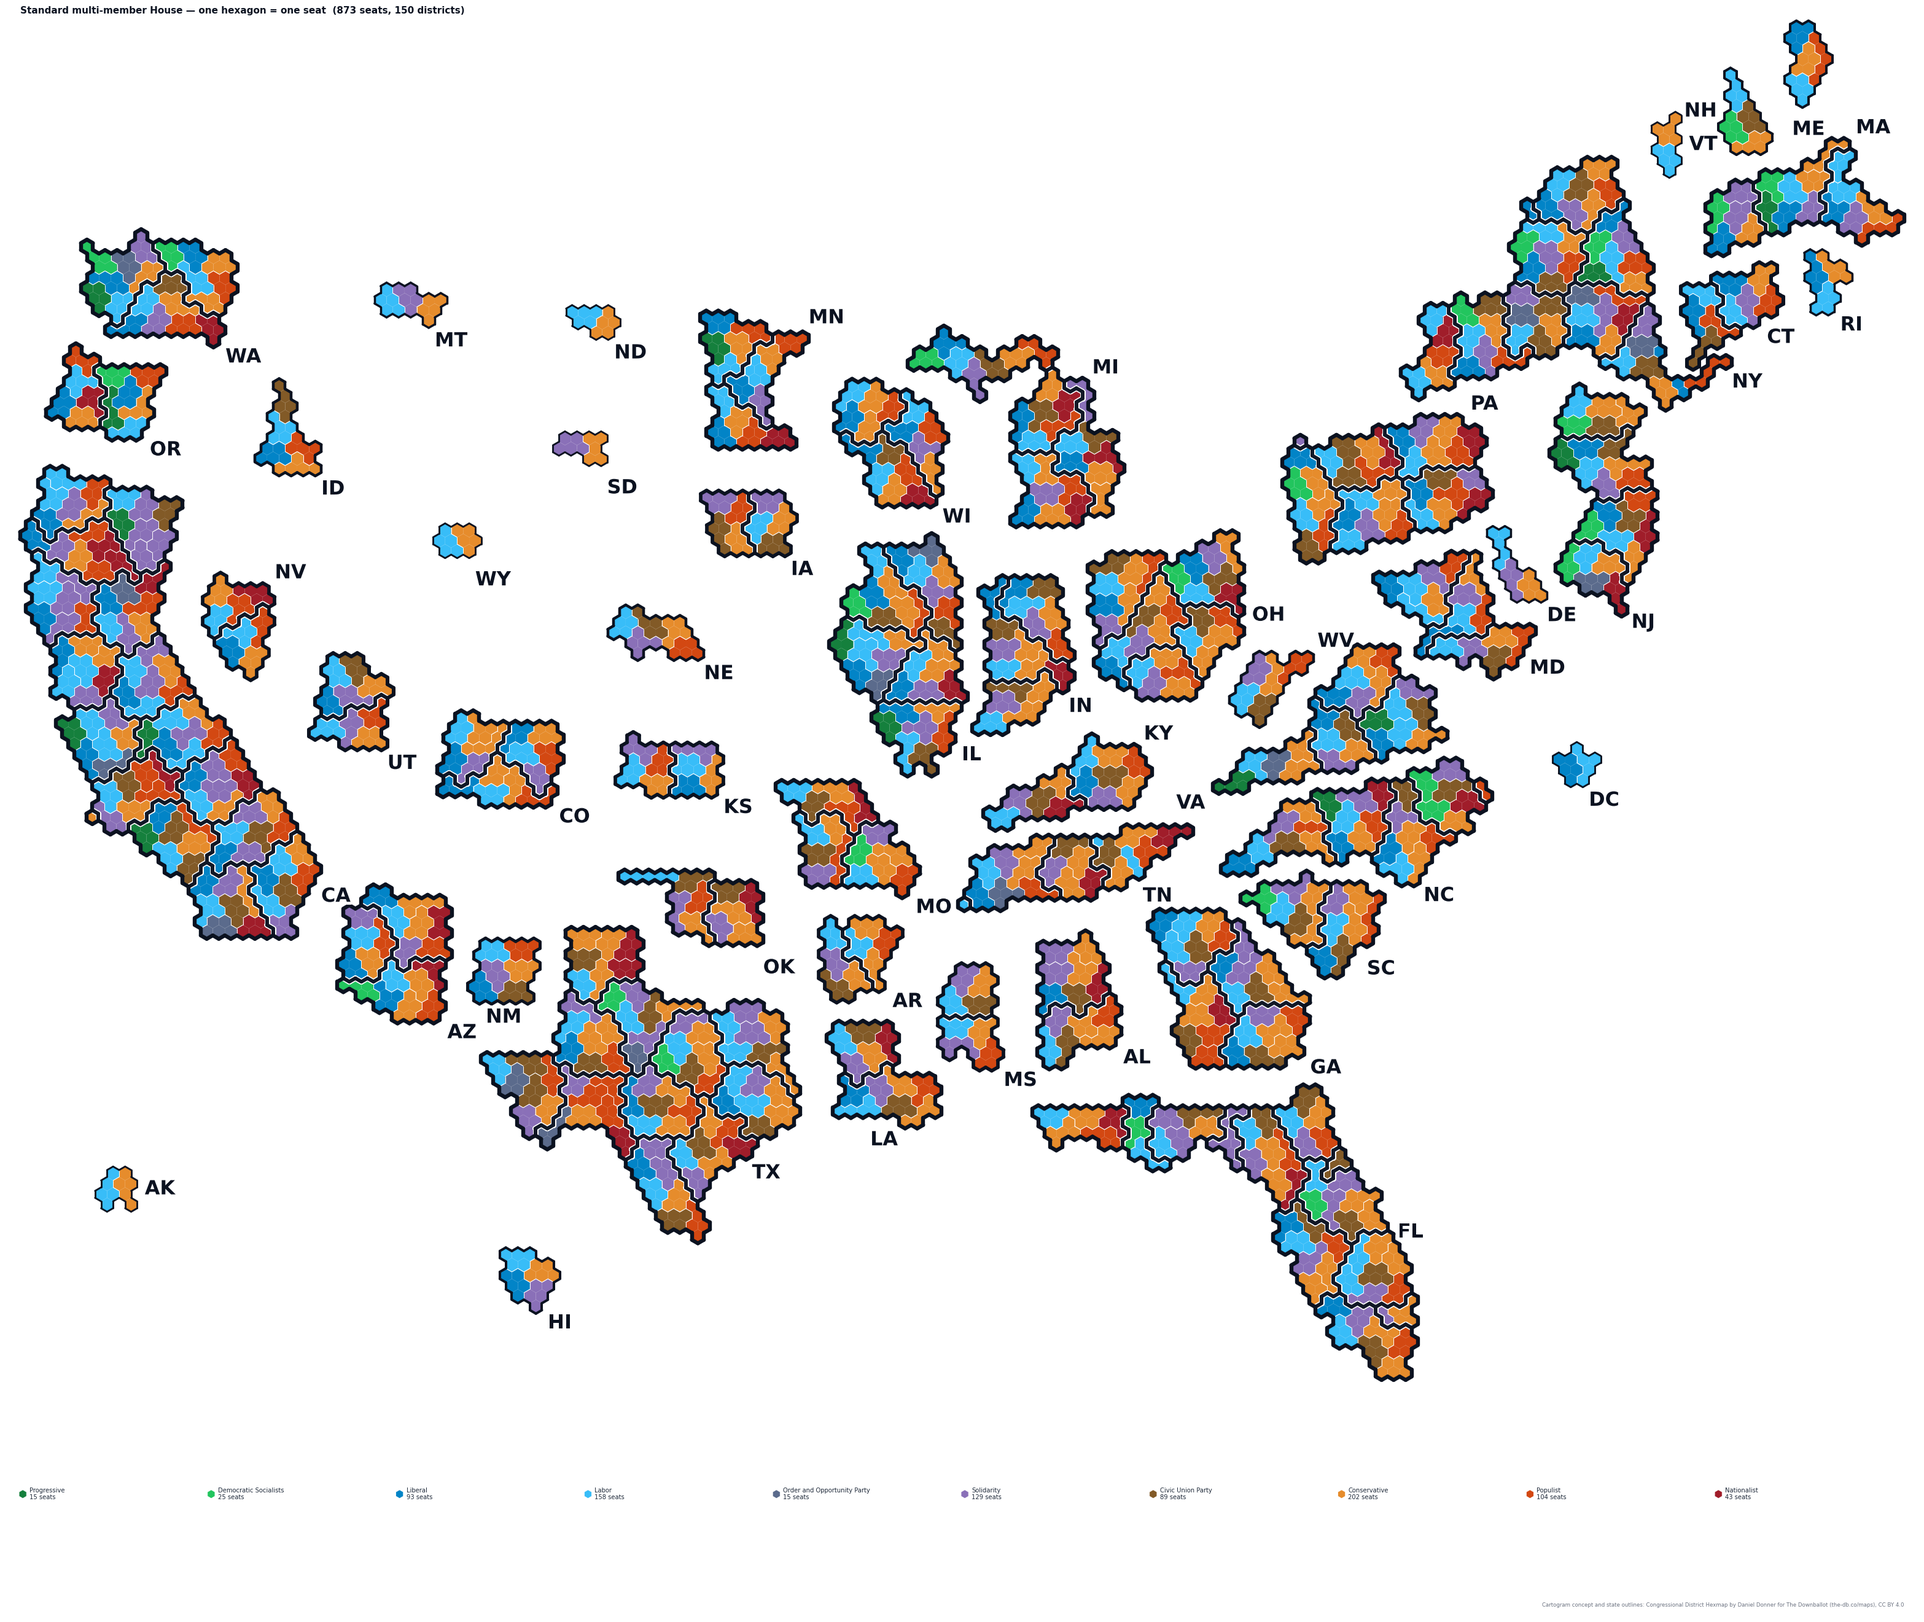
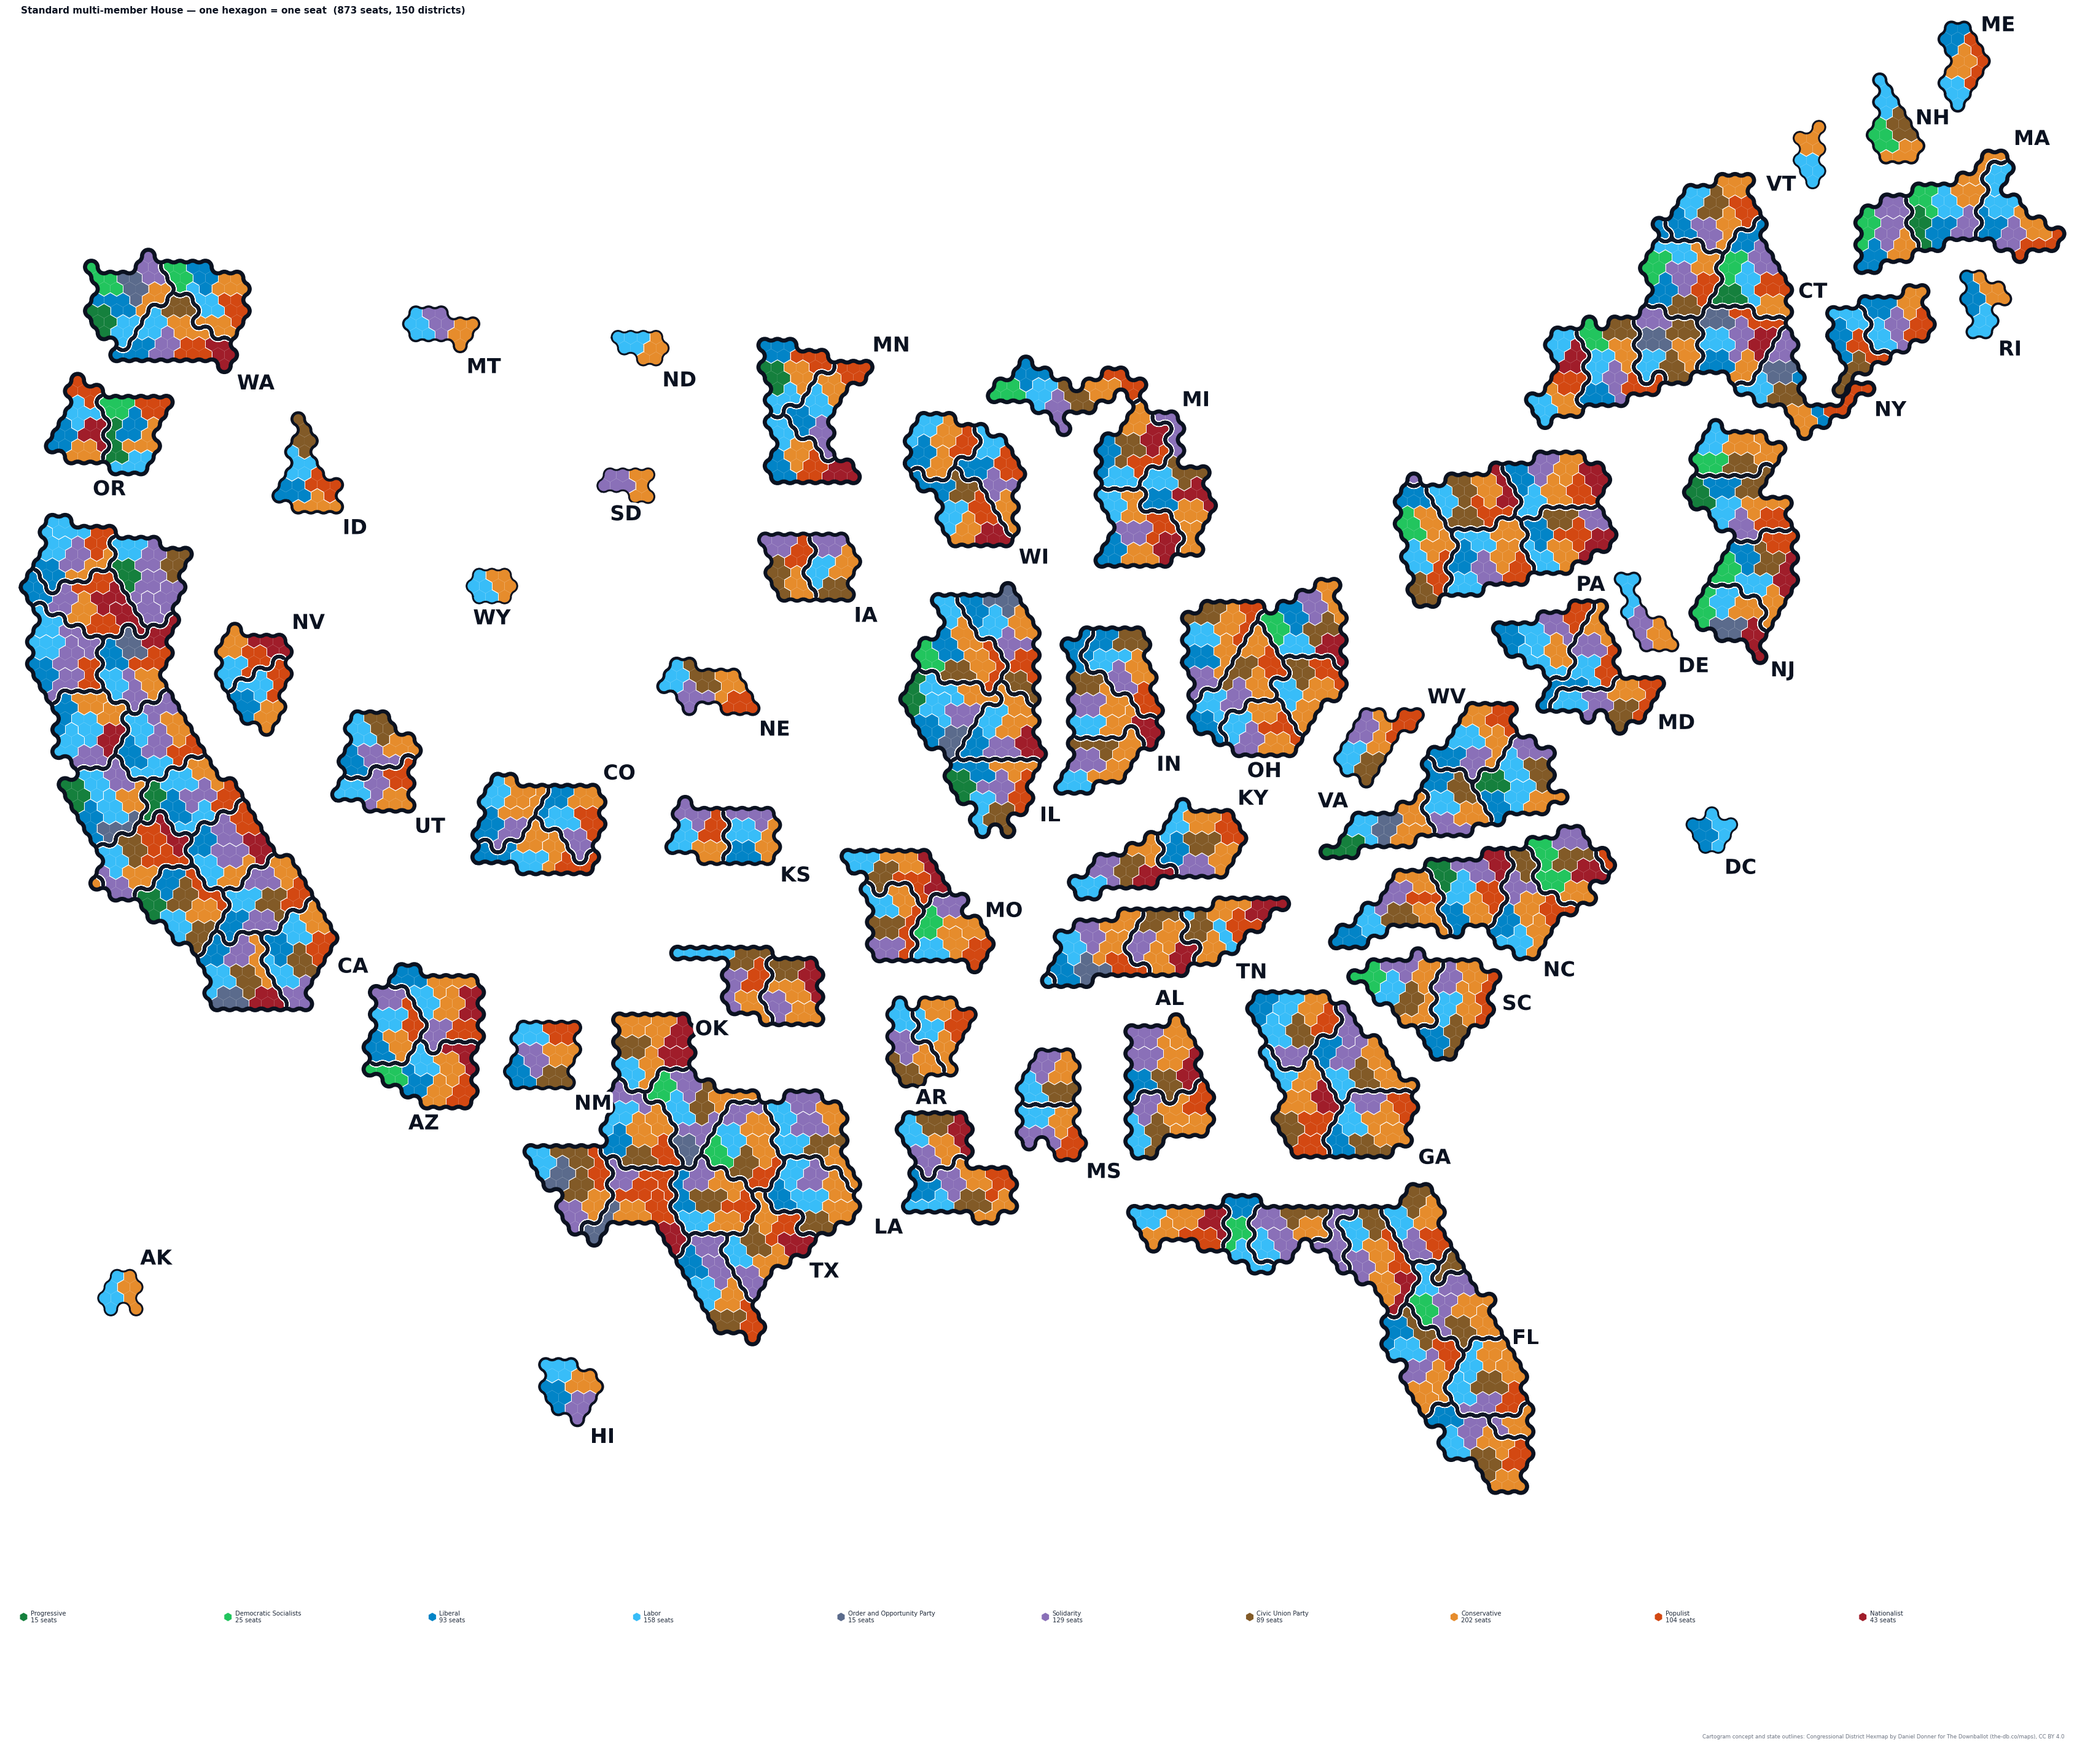
Draw district borders as continuous rounded strokes and scale their weight
Two fixes for borders reading as sawteeth on a coarse lattice:

- Boundary edges are chained into continuous polylines before drawing, then their
  corners filleted. Previously each hex edge went out as its own two-point segment, so
  joinstyle never fired and matplotlib had no path to smooth - 829 disconnected sticks
  at 1 cell/seat. The fillet is deliberately local, so the line stays on the lattice
  along straight runs and still separates seats correctly. --sharp opts out.
- District line weight now scales with hex size (calibrated at the 5-cells-per-seat
  lattice). The border staircases along hex edges, so a stroke thinner than a step reads
  as notches: the step/stroke ratio was 6.4x at 1 cell/seat against 2.8x at 5.

Labels: try every side at the tightest offset before moving a label further out, so a
leader line is earned rather than routine (10 leaders down to 3), and reject any anchor
nearer another state than its own, which is what made the IL/IN/OH/KY/WV cluster
unreadable. At --explode 1.14 no state needs the radial fallback.

diff --git a/pipeline/render_hex_seat_cartogram.py b/pipeline/render_hex_seat_cartogram.py
@@ -48,9 +48,18 @@ PARTIES_TS = BASE_DIR / "viz" / "src" / "constants" / "parties.ts"
 # looks the same zoomed in as it does on the full map.
 REF_PX_PER_DEG = 58.0
 W_SEAT, W_STATE = 0.5, 3.4
-# 'cased' leans on a heavy dark district line; 'gap' on a wide white channel.
+# 'cased' leans on a heavy dark district line; 'gap' on a wide white channel. The base
+# weights are calibrated at R_CALIB; a coarser lattice needs a heavier line because the
+# border staircases along hex edges, and a stroke thinner than a step reads as sawteeth.
 W_DISTRICT_CASED, W_CASING = 3.0, 4.8
 W_DISTRICT_GAP = 3.6
+R_CALIB = 0.1886        # the 5-cells-per-seat lattice, where these weights look right
+
+
+def district_weights(R, scale):
+    """Dark line and casing widths for a lattice of circumradius R."""
+    k = min(2.2, max(1.0, (R / R_CALIB) ** 0.75)) * scale
+    return W_DISTRICT_CASED * k, W_CASING * k, W_DISTRICT_GAP * k
 C_SEAT, C_DISTRICT, C_STATE = "#ffffff", "#111827", "#0b1220"
 
 
@@ -77,6 +86,89 @@ def load_palette():
     return colors, names, left_right
 
 
+def chain_edges(edges, tol=6):
+    """Join loose boundary segments into continuous polylines.
+
+    Emitting each hex edge as its own two-point segment means matplotlib has no path to
+    join or smooth, so every corner of a district border stays a hard angle however heavy
+    the stroke — which is what makes the border read as sawteeth at a coarse lattice.
+    Walking the segments into chains gives one stroke per border, and something to round.
+
+    At a junction where three districts meet, the continuation that turns least is taken,
+    which keeps a border from doubling back on itself.
+    """
+    def key(pt):
+        return (round(pt[0], tol), round(pt[1], tol))
+
+    at = defaultdict(list)
+    for i, (a, b) in enumerate(edges):
+        at[key(a)].append(i)
+        at[key(b)].append(i)
+    used = [False] * len(edges)
+    chains = []
+    for start in range(len(edges)):
+        if used[start]:
+            continue
+        used[start] = True
+        a, b = edges[start]
+        chain = [a, b]
+        # Extend from the tail, then from the head.
+        for _ in range(2):
+            while True:
+                tail, prev = chain[-1], chain[-2]
+                vx, vy = tail[0] - prev[0], tail[1] - prev[1]
+                best, best_turn = None, None
+                for j in at[key(tail)]:
+                    if used[j]:
+                        continue
+                    c, d = edges[j]
+                    nxt = d if key(c) == key(tail) else c
+                    wx, wy = nxt[0] - tail[0], nxt[1] - tail[1]
+                    dot = (vx * wx + vy * wy) / (math.hypot(vx, vy) * math.hypot(wx, wy)
+                                                 or 1)
+                    if best_turn is None or dot > best_turn:
+                        best, best_turn = (j, nxt), dot
+                if best is None:
+                    break
+                j, nxt = best
+                used[j] = True
+                chain.append(nxt)
+                if key(nxt) == key(chain[0]):
+                    break
+            chain.reverse()
+        chains.append(chain)
+    return chains
+
+
+def round_corners(pts, frac=0.28, iters=2):
+    """Cut each corner back along its two edges, twice — a fillet, not a re-spline.
+
+    Deliberately local: the line stays on the lattice along straight runs and only
+    softens at the turns, so it does not drift away from the hexagon fills underneath.
+    """
+    closed = abs(pts[0][0] - pts[-1][0]) < 1e-9 and abs(pts[0][1] - pts[-1][1]) < 1e-9
+    out = [tuple(p) for p in pts]
+    for _ in range(iters):
+        if len(out) < 3:
+            break
+        new = [] if closed else [out[0]]
+        rng = range(len(out) - 1) if closed else range(1, len(out) - 1)
+        seq = out[:-1] if closed else out
+        n = len(seq)
+        for i in (range(n) if closed else range(1, n - 1)):
+            prv, cur, nxt = seq[(i - 1) % n], seq[i], seq[(i + 1) % n]
+            new.append((cur[0] + frac * (prv[0] - cur[0]),
+                        cur[1] + frac * (prv[1] - cur[1])))
+            new.append((cur[0] + frac * (nxt[0] - cur[0]),
+                        cur[1] + frac * (nxt[1] - cur[1])))
+        if closed:
+            new.append(new[0])
+        else:
+            new.append(out[-1])
+        out = new
+    return out
+
+
 def compound_path(rings):
     """One closed matplotlib Path covering every ring of a state."""
     return MplPath.make_compound_path(*[
@@ -97,6 +189,10 @@ def main():
     ap.add_argument("--no-clip", action="store_true",
                     help="let hexagons extend past the state border instead of being "
                          "clipped to it")
+    ap.add_argument("--district-scale", type=float, default=1.0,
+                    help="multiply the auto district line weight")
+    ap.add_argument("--sharp", action="store_true",
+                    help="skip corner rounding on district borders")
     ap.add_argument("--report-labels", action="store_true",
                     help="print which side each state label landed on")
     ap.add_argument("--label-size", type=float, default=17.0,
@@ -116,6 +212,7 @@ def main():
     R, x0, y0 = meta["R"], meta["x0"], meta["y0"]
     colors, names, left_right = load_palette()
     lw = args.px_per_deg / REF_PX_PER_DEG
+    w_dist, w_casing, w_gap = district_weights(R, args.district_scale)
 
     def core_centres(st):
         return [hex_center(c["col"], c["row"], R, x0, y0)
@@ -216,23 +313,28 @@ def main():
                                  zorder=1),
                   LineCollection(seat_edges, colors=C_SEAT, linewidths=W_SEAT * lw,
                                  zorder=2, alpha=0.85)]
+        # One continuous stroke per border, corners filleted, so the staircase reads as
+        # a line rather than a row of notches.
+        dist_paths = [c if args.sharp else round_corners(c)
+                      for c in chain_edges(dist_edges)]
         if args.style == "gap":
             # Districts separated by a wide white channel: white always reads against
             # the saturated party fills, and gap width alone carries the hierarchy.
-            layers.append(LineCollection(dist_edges, colors="#ffffff",
-                                         linewidths=W_DISTRICT_GAP * lw, zorder=3,
+            layers.append(LineCollection(dist_paths, colors="#ffffff",
+                                         linewidths=w_gap * lw, zorder=3,
                                          capstyle="round", joinstyle="round"))
         else:
             # Dark district line cased in white so it survives both the dark fills
             # (Nationalist, Progressive) and the light ones (Labor).
-            layers.append(LineCollection(dist_edges, colors="#ffffff",
-                                         linewidths=W_CASING * lw, zorder=3,
+            layers.append(LineCollection(dist_paths, colors="#ffffff",
+                                         linewidths=w_casing * lw, zorder=3,
                                          capstyle="round", joinstyle="round"))
-            layers.append(LineCollection(dist_edges, colors=C_DISTRICT,
-                                         linewidths=W_DISTRICT_CASED * lw, zorder=4,
+            layers.append(LineCollection(dist_paths, colors=C_DISTRICT,
+                                         linewidths=w_dist * lw, zorder=4,
                                          capstyle="round", joinstyle="round"))
         if not clipped:
-            layers.append(LineCollection(hex_rim, colors=C_STATE,
+            rim = [c if args.sharp else round_corners(c) for c in chain_edges(hex_rim)]
+            layers.append(LineCollection(rim, colors=C_STATE,
                                          linewidths=w_state * lw, zorder=5,
                                          capstyle="round", joinstyle="round"))
 
@@ -275,6 +377,18 @@ def main():
         occupied = np.array([shift(ab2, hex_center(c["col"], c["row"], R, x0, y0))
                              for ab2, st2 in data["states"].items()
                              for c in st2["cells"]])
+        by_state_pts = {ab2: np.array([shift(ab2, hex_center(c["col"], c["row"],
+                                                            R, x0, y0))
+                                       for c in st2["cells"]])
+                        for ab2, st2 in data["states"].items()}
+
+        def nearest_state(pt):
+            best, bd = None, None
+            for ab2, arr in by_state_pts.items():
+                dd = float(np.min((arr[:, 0] - pt[0]) ** 2 + (arr[:, 1] - pt[1]) ** 2))
+                if bd is None or dd < bd:
+                    best, bd = ab2, dd
+            return best
 
         def silhouette(ab, st):
             """Points tracing what is actually drawn for this state."""
@@ -333,9 +447,11 @@ def main():
             if ab in PREFERRED:
                 order_here = [PREFERRED[ab]] + [c for c in CANDIDATES
                                                 if c != PREFERRED[ab]]
-            for side, bias in order_here:
-                for gap in (0.55 * R, 1.1 * R, 1.8 * R, 2.8 * R, 4.2 * R,
-                            6.0 * R, 8.5 * R):
+            # Gap outermost: exhaust every side at the tightest offset before moving the
+            # label further out, so a label only drifts (and earns a leader line) when
+            # the state is genuinely boxed in on all sides.
+            for gap in (0.55 * R, 1.1 * R, 1.8 * R, 2.8 * R, 4.2 * R, 6.0 * R, 8.5 * R):
+                for side, bias in order_here:
                     ax_, ay_, ha, va = anchor_for(pts, side, bias, gap)
                     lx0 = (ax_ if ha == "left" else ax_ - lab_w if ha == "right"
                            else ax_ - lab_w / 2)
@@ -351,6 +467,13 @@ def main():
                     if any(box[0] < b[2] and b[0] < box[2]
                            and box[1] < b[3] and b[1] < box[3] for b in taken):
                         continue        # would sit on another label
+                    # A label nearer some other state than its own is worse than no
+                    # label — that is what made the IL/IN/OH/KY/WV cluster unreadable.
+                    # Only enforced for labels sitting against their state; once a label
+                    # is far enough out to earn a leader line, the line says which state
+                    # it belongs to.
+                    if gap <= 2.0 * R and nearest_state((ax_, ay_)) != ab:
+                        continue
                     chosen = (ax_, ay_, ha, va, box, side, bias, gap, pts)
                     break
                 if chosen:
